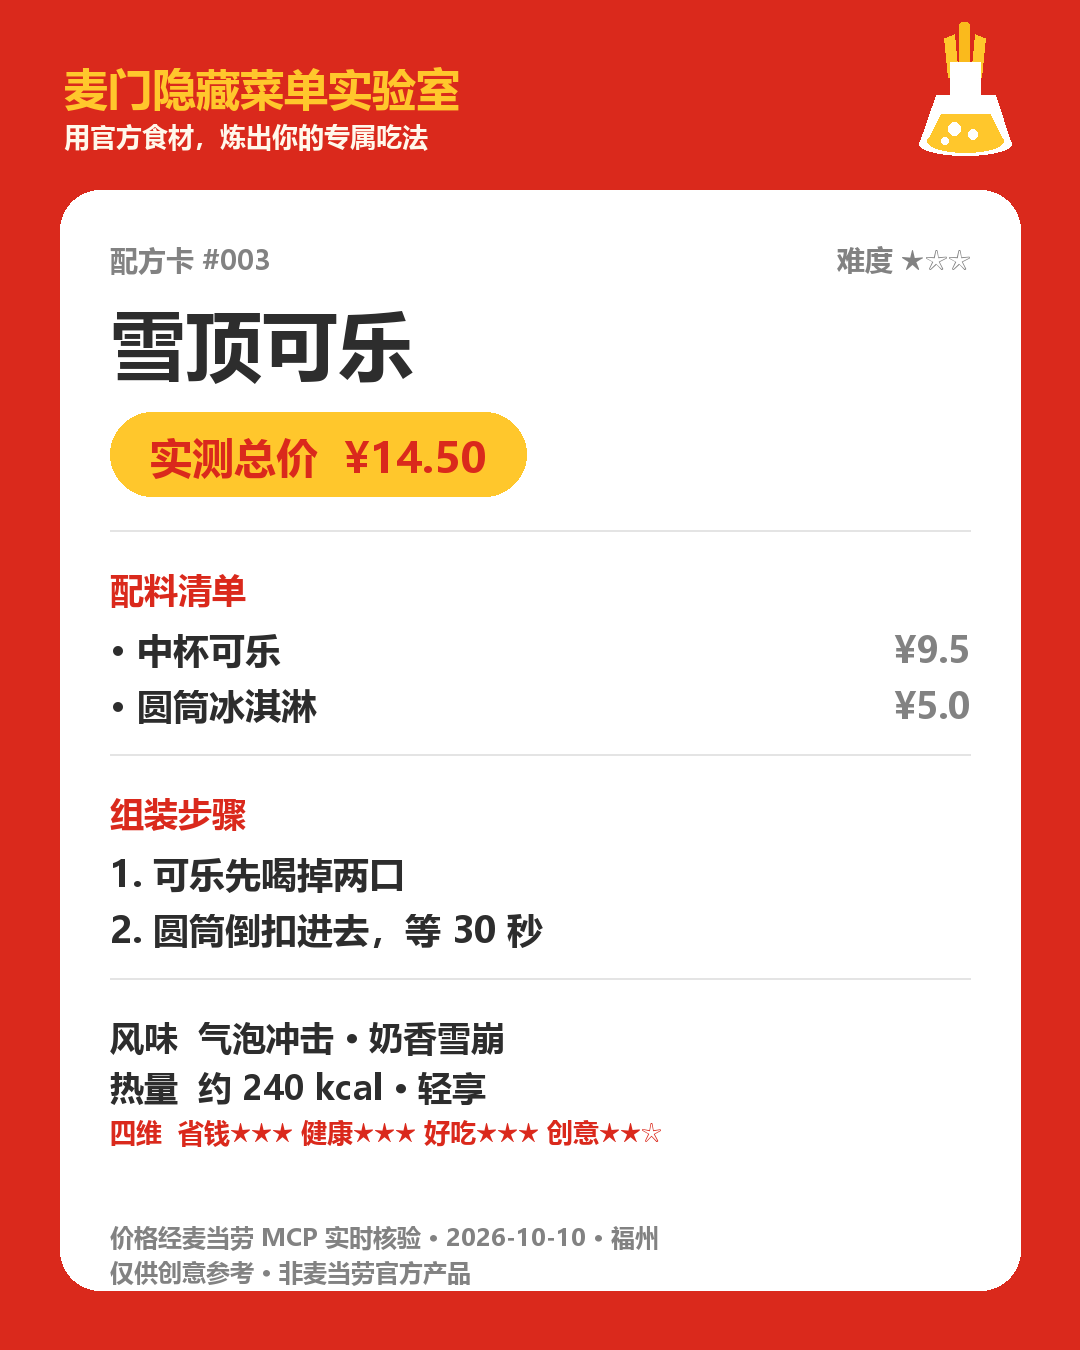
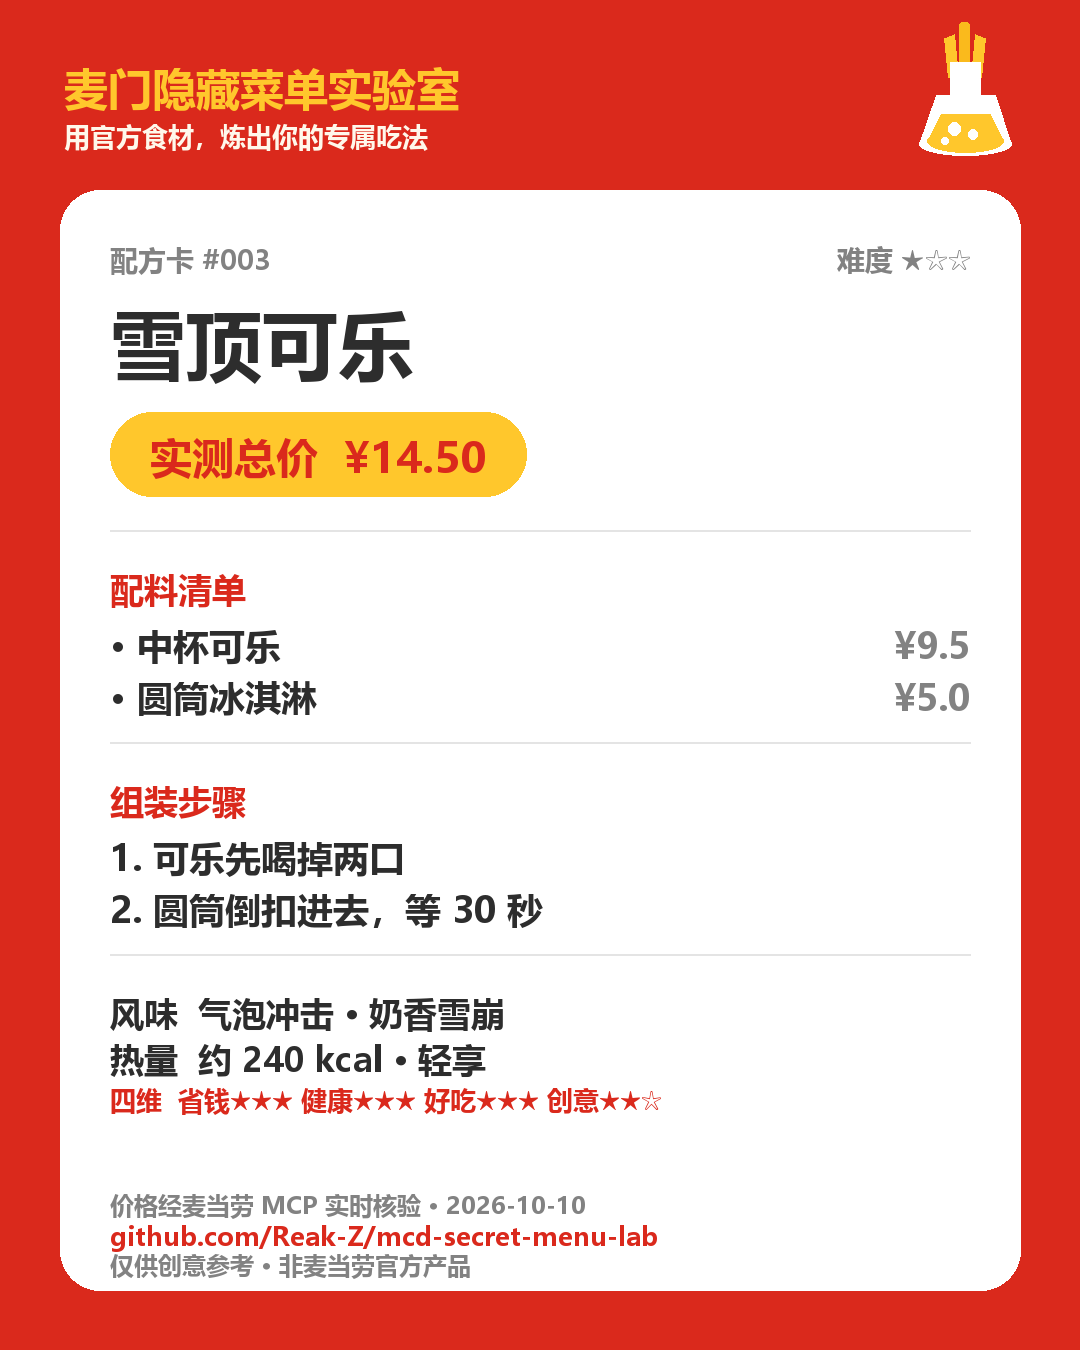
polish: 双视角评审修复 — 卡片溯源地址/FAQ/快速导航/requirements/tools文档/数据一致性

Changed region(s): [[0.0917, 0.4667, 0.6111, 0.9644], [0.825, 0.4667, 0.9167, 0.56]]

diff --git a/tools/make_recipe_card.py b/tools/make_recipe_card.py
@@ -171,22 +171,22 @@ def make_card(r, out_path):
 
     # ===== 配料 =====
     d.text((x, y), "配料清单", font=load_font(34), fill=RED)
-    y += 58
+    y += 54
     for name, price in r["items"]:
         d.text((x, y), "· " + name, font=load_font(36), fill=DARK)
         pw = d.textlength(price, font=load_font(36))
         d.text((W - 110 - pw, y), price, font=load_font(36), fill=GRAY)
-        y += 56
+        y += 52
     y += 18
     d.line((x, y, W - 110, y), fill=LIGHT, width=2)
     y += 36
 
     # ===== 组装 =====
     d.text((x, y), "组装步骤", font=load_font(34), fill=RED)
-    y += 58
+    y += 54
     for i, s in enumerate(r["steps"], 1):
         d.text((x, y), f"{i}. {s}", font=load_font(36), fill=DARK)
-        y += 56
+        y += 52
     y += 18
     d.line((x, y, W - 110, y), fill=LIGHT, width=2)
     y += 36
@@ -194,16 +194,17 @@ def make_card(r, out_path):
     # ===== 风味 / 热量 / 四维评分 =====
     sc = SCORES.get(r["no"], ("★☆☆", "★☆☆", "★☆☆", "★☆☆", "适中"))
     d.text((x, y), "风味  " + r["flavor"], font=load_font(34), fill=DARK)
-    y += 50
+    y += 46
     d.text((x, y), "热量  " + r["kcal"] + " · " + sc[4], font=load_font(34), fill=DARK)
-    y += 50
+    y += 46
     d.text((x, y), "四维  省钱%s 健康%s 好吃%s 创意%s" % (sc[0], sc[1], sc[2], sc[3]),
            font=load_font(26), fill=RED)
-    y += 70
+    y += 60
 
-    # 底部注脚
-    d.text((x, H - 130), "价格经麦当劳 MCP 实时核验 · 2026-10-10 · 福州", font=load_font(24), fill=GRAY)
-    d.text((x, H - 95), "仅供创意参考 · 非麦当劳官方产品", font=load_font(24), fill=GRAY)
+    # 底部注脚（含仓库地址：卡片被转发后也能找到来源）
+    d.text((x, H - 162), "价格经麦当劳 MCP 实时核验 · 2026-10-10", font=load_font(24), fill=GRAY)
+    d.text((x, H - 132), "github.com/Reak-Z/mcd-secret-menu-lab", font=load_font(26), fill=RED)
+    d.text((x, H - 102), "仅供创意参考 · 非麦当劳官方产品", font=load_font(24), fill=GRAY)
 
     img.save(out_path, "PNG")
     return out_path

diff --git a/README.md b/README.md
@@ -13,6 +13,8 @@
 
 **2026 麦当劳程序员创意开发大赛参赛作品** · 基于 [麦当劳中国官方 MCP](https://github.com/M-China/mcd-mcp-server) 开发 · 使用 [WorkBuddy](https://www.workbuddy.cn/) 构建
 
+> 🍟 **只想看配方？** → [14 个实测配方一览](references/recipes.md) ｜ 📸 [配方卡画廊](assets/cards/) ｜ 🎬 见下方[在线演示](#-在线演示) ｜ 🧪 [投稿你的 DIY](DIY_RANKING.md)
+
 ---
 
 ## 🍟 这是什么？
@@ -193,7 +195,7 @@ python tools/install.py
 
 - [x] 配方库 v1（10 个经典隐藏吃法）
 - [x] 风味兼容性矩阵 v1
-- [x] **MCP 真实链路核验**（2026-10-10 完成：10 个配方全部实测计价 + 158 项营养数据）
+- [x] **MCP 真实链路核验**（2026-10-10 完成：14 个配方全部实测计价 + 158 项营养数据）
 - [x] **配方卡图片生成器**（2026-10-10：1080×1350 可分享版式，一键出图）
 - [x] **对话演示 GIF**（2026-10-10：11 帧动画，183KB，见上方演示）
 - [x] **社区 DIY 功能**（2026-10-10：Issue 投稿模板 + 反应数排行榜 + Actions 每日自动更新）
@@ -209,6 +211,26 @@ python tools/install.py
 - 参赛状态：✅ **已通过官方核验，成功参赛**（[Issue #272](https://github.com/M-China/mcd-developer-innovation-challenge/issues/272)，2026-10-10 官方确认）
 
 ---
+
+## ❓ FAQ
+
+**Q：没有 WorkBuddy 也能用吗？**
+可以"半手动"用：14 个配方、实测价格、热量数据都写在仓库里，照着点单即可。完整体验（实时核价、现场发明新配方、DIY 核验）需要一个支持 MCP 的客户端（WorkBuddy / Claude Code / Cursor 等）。
+
+**Q：为什么价格和我这里的不一样？**
+麦当劳价格随城市/门店/时段波动。仓库里的价格是实测样本，同时提供实时核验方法——以你所在门店的 MCP 核价为准。
+
+**Q：热量数据从哪来？**
+麦当劳官方营养表（通过 MCP `list-nutrition-foods` 实时获取，158 项）。未收录的新品会标注「参考」。
+
+**Q：这些吃法从哪来？**
+经典款来自网络流传（已注明）；原创款由「风味矩阵」配方引擎发明（标注原创）。欢迎投稿你的 DIY。
+
+**Q：为什么只做麦当劳？**
+这是麦当劳官方大赛的参赛作品，规则要求只使用麦当劳品牌内容（也绝不与其他品牌对比）。
+
+**Q：会胖吗？😅**
+每个配方都有热量分级：「轻享」≤300 kcal 放心吃；「大满足」>500 kcal 建议分享或当日平衡。数据仅供参考，不构成营养建议。
 
 ## ⚠ 声明
 

diff --git a/examples/live-verification-2026-10-10.md b/examples/live-verification-2026-10-10.md
@@ -16,7 +16,7 @@
 | 3 | `query-nearby-stores` | ✅ 检索到福州五四路店（storeCode 1410005） |
 | 4 | `query-meals` | ✅ 门店在售 **130 项**餐品全量拉取 |
 | 5 | `query-meal-detail` | ✅ 解析「派 / 新地 / 美式」等可选口味结构 |
-| 6 | `calculate-price` | ✅ **10 个配方全部实时计价成功** |
+| 6 | `calculate-price` | ✅ **14 个配方全部实时计价成功**（首轮 10 个 + 扩容 4 个） |
 | 7 | `list-nutrition-foods` | ✅ **158 项**餐品营养数据（热量/蛋白/脂肪/碳水/钠/钙） |
 
 ## 二、配方真实计价结果（calculate-price 实测）
@@ -33,6 +33,10 @@
 | #008 酸甜脆薯 | 中薯条 ¥14.5（番茄酱+糖自助免费） | **¥14.50** |
 | #009 雪顶麦炫酷 | 阳光橙麦炫酷 ¥12.5 + 圆筒冰淇淋 ¥5 | **¥17.50** |
 | #010 麦旋风双拼 | 经典麦旋风 ¥15.5 + 黑洋酥小圆子风味派 ¥5 | **¥20.50** |
+| #011 星星撞薯 | 泷盐星星麦旋风 ¥16.5 + 中薯条 ¥14.5 | **¥31.00** |
+| #012 扭扭芝士塔 | 月下相思扭扭薯 ¥16 + 韩式烟熏芝士酱 ¥3 | **¥19.00** |
+| #013 红茶雪顶 | 阳光柠檬红茶 ¥9.5 + 圆筒冰淇淋 ¥5 | **¥14.50** |
+| #014 焦香撞冰 | 薄皮焦香V翅 ¥16 + 新地 ¥12.5 | **¥28.50** |
 
 ## 三、核验中发现的关键情报
 

diff --git a/tools/README.md b/tools/README.md
@@ -1,0 +1,18 @@
+# 🛠 tools/ 脚本说明
+
+本目录包含项目的全部可运行脚本。依赖：`pip install -r requirements.txt`（仅 Pillow）。
+
+| 脚本 | 用途 | 用法 |
+|---|---|---|
+| `install.py` | 一键安装 Skill 到本机（自动探测 WorkBuddy / Claude Code 技能目录） | `python tools/install.py` |
+| `diy_ranking.py` | 扫描「DIY配方」标签的 Issue，按反应数生成 `DIY_RANKING.md`（由 GitHub Actions 每日自动调用） | `python tools/diy_ranking.py --token <GITHUB_TOKEN>` |
+| `emblem.py` | 绘制项目原创标识（烧瓶+薯条），导出 `assets/emblem.png` | `python tools/emblem.py` |
+| `make_recipe_card.py` | 批量生成 14 张配方卡（1080×1350，含四维评分） | `python tools/make_recipe_card.py` |
+| `make_demo_gif.py` | 生成对话演示动画 `assets/demo.gif` | `python tools/make_demo_gif.py` |
+| `make_social_poster.py` | 生成社交物料（封面海报 + 配方合集图） | `python tools/make_social_poster.py` |
+
+## 说明
+
+- 字体依赖：脚本会自动探测系统 CJK 字体（Windows 微软雅黑 / macOS PingFang / Linux Noto），无需手动配置
+- 所有图片产物输出到 `assets/` 对应子目录
+- 生成的 `assets/demo_preview.png` 为检查用中间产物，已被 .gitignore 忽略

diff --git a/workbuddy.md b/workbuddy.md
@@ -16,7 +16,7 @@
 | 15:20 | 项目骨架：README / SKILL.md / 配方库 v1 / 风味矩阵 / MCP_INTEGRATION / 脱敏配置 | 文件读写 + 内容创作 | 仓库 v0.1 上线 |
 | 15:30 | 官方报名：按标准格式提交参赛 Issue 并实时跟踪 | Git API 操作 | Issue #272 报名成功 |
 | 15:35 | MCP 真实链路联调：门店查询 → 菜单（130 项）→ 食材详情 → 实时计价 → 营养（158 项） | MCP 工具调用（自建客户端） | 全链路打通 |
-| 15:40 | 实测核验：10 个配方逐一真实计价 | MCP 批量调用 + 数据处理 | [examples/live-verification-2026-10-10.md](examples/live-verification-2026-10-10.md) |
+| 15:40 | 实测核验：配方逐一真实计价（首轮 10 个，后扩容至 14 个） | MCP 批量调用 + 数据处理 | [examples/live-verification-2026-10-10.md](examples/live-verification-2026-10-10.md) |
 | 15:45 | 配方卡图片生成器开发 | Python/PIL 脚本编写 | tools/make_recipe_card.py + 10 张卡 |
 | 15:52 | 对话演示 GIF 生成器（含字型排障） | 脚本开发 + 视觉调试 | tools/make_demo_gif.py |
 | 15:55 | 配方库扩容至 14 个（4 个原创配方全部实测） | MCP 核价 + 知识库更新 | recipes.md v2.1 |

diff --git a/MCP_INTEGRATION.md b/MCP_INTEGRATION.md
@@ -1,7 +1,7 @@
 # 🔌 MCP 集成说明
 
 > 本文件说明「麦门隐藏菜单实验室」实际使用的麦当劳 MCP Server、Tool、调用流程与业务价值。
-> 状态：v2 已实测（2026-10-10 完成 10 个配方全链路核验：菜单拉取 → 食材详情 → 实时计价 → 营养；实测记录见 [examples/live-verification-2026-10-10.md](examples/live-verification-2026-10-10.md)）
+> 状态：v2 已实测（2026-10-10 完成 14 个配方全链路核验：菜单拉取 → 食材详情 → 实时计价 → 营养；实测记录见 [examples/live-verification-2026-10-10.md](examples/live-verification-2026-10-10.md)）
 
 ---
 
